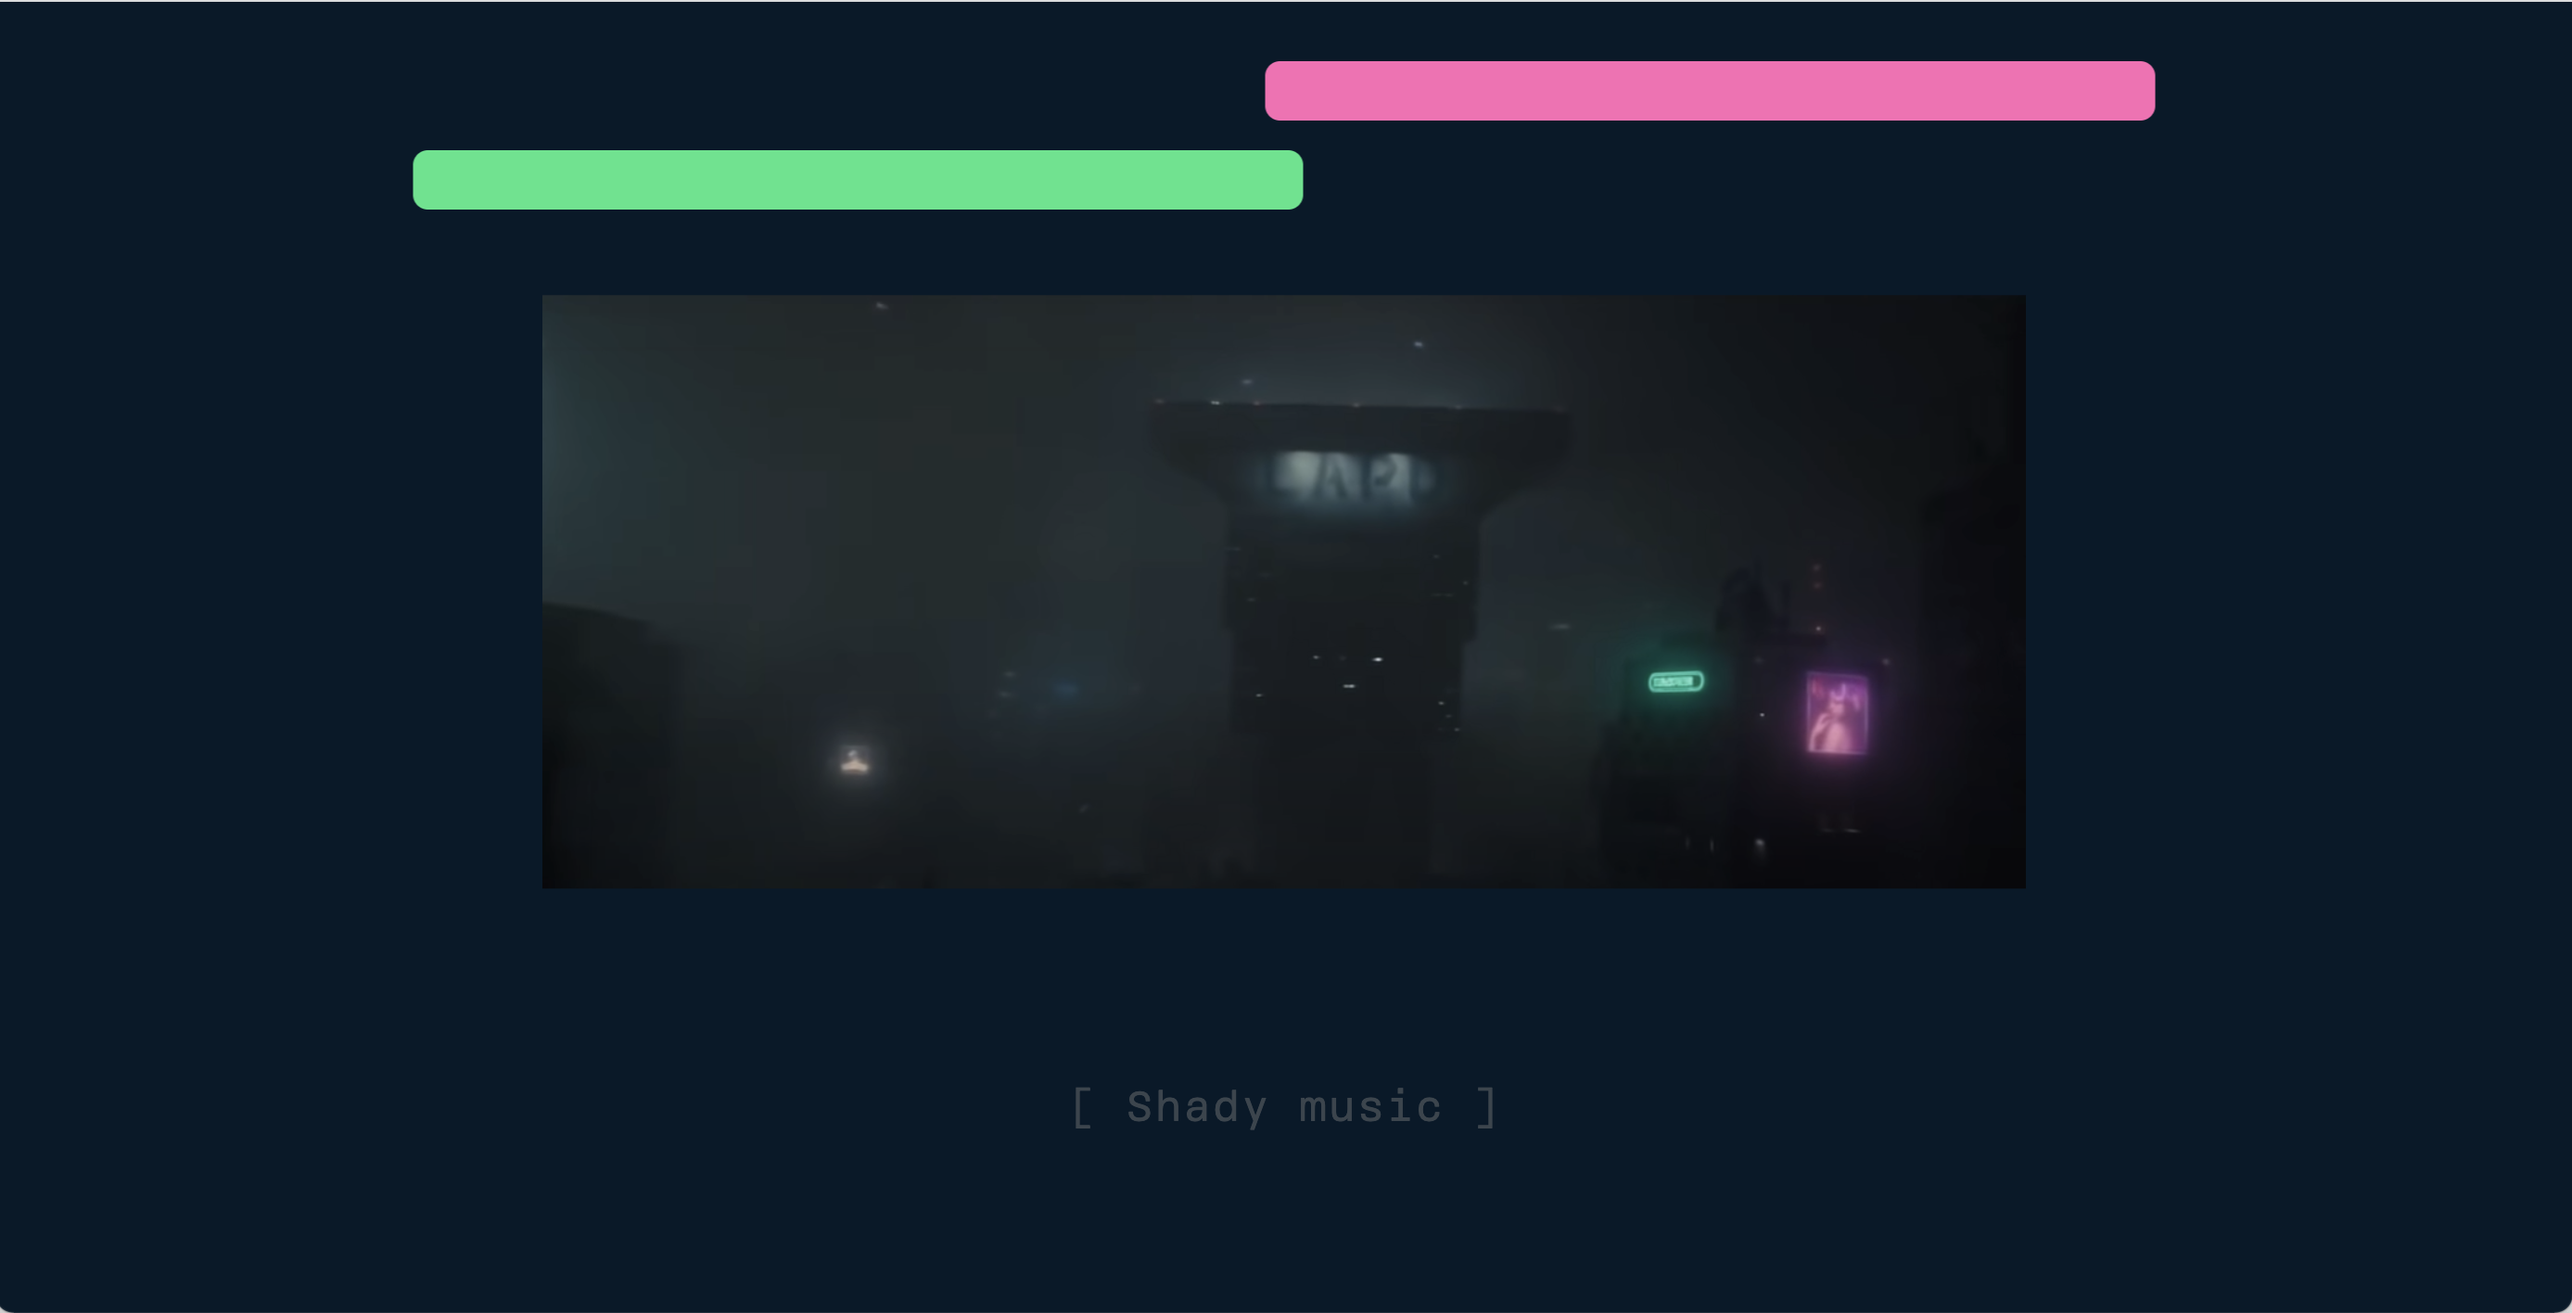
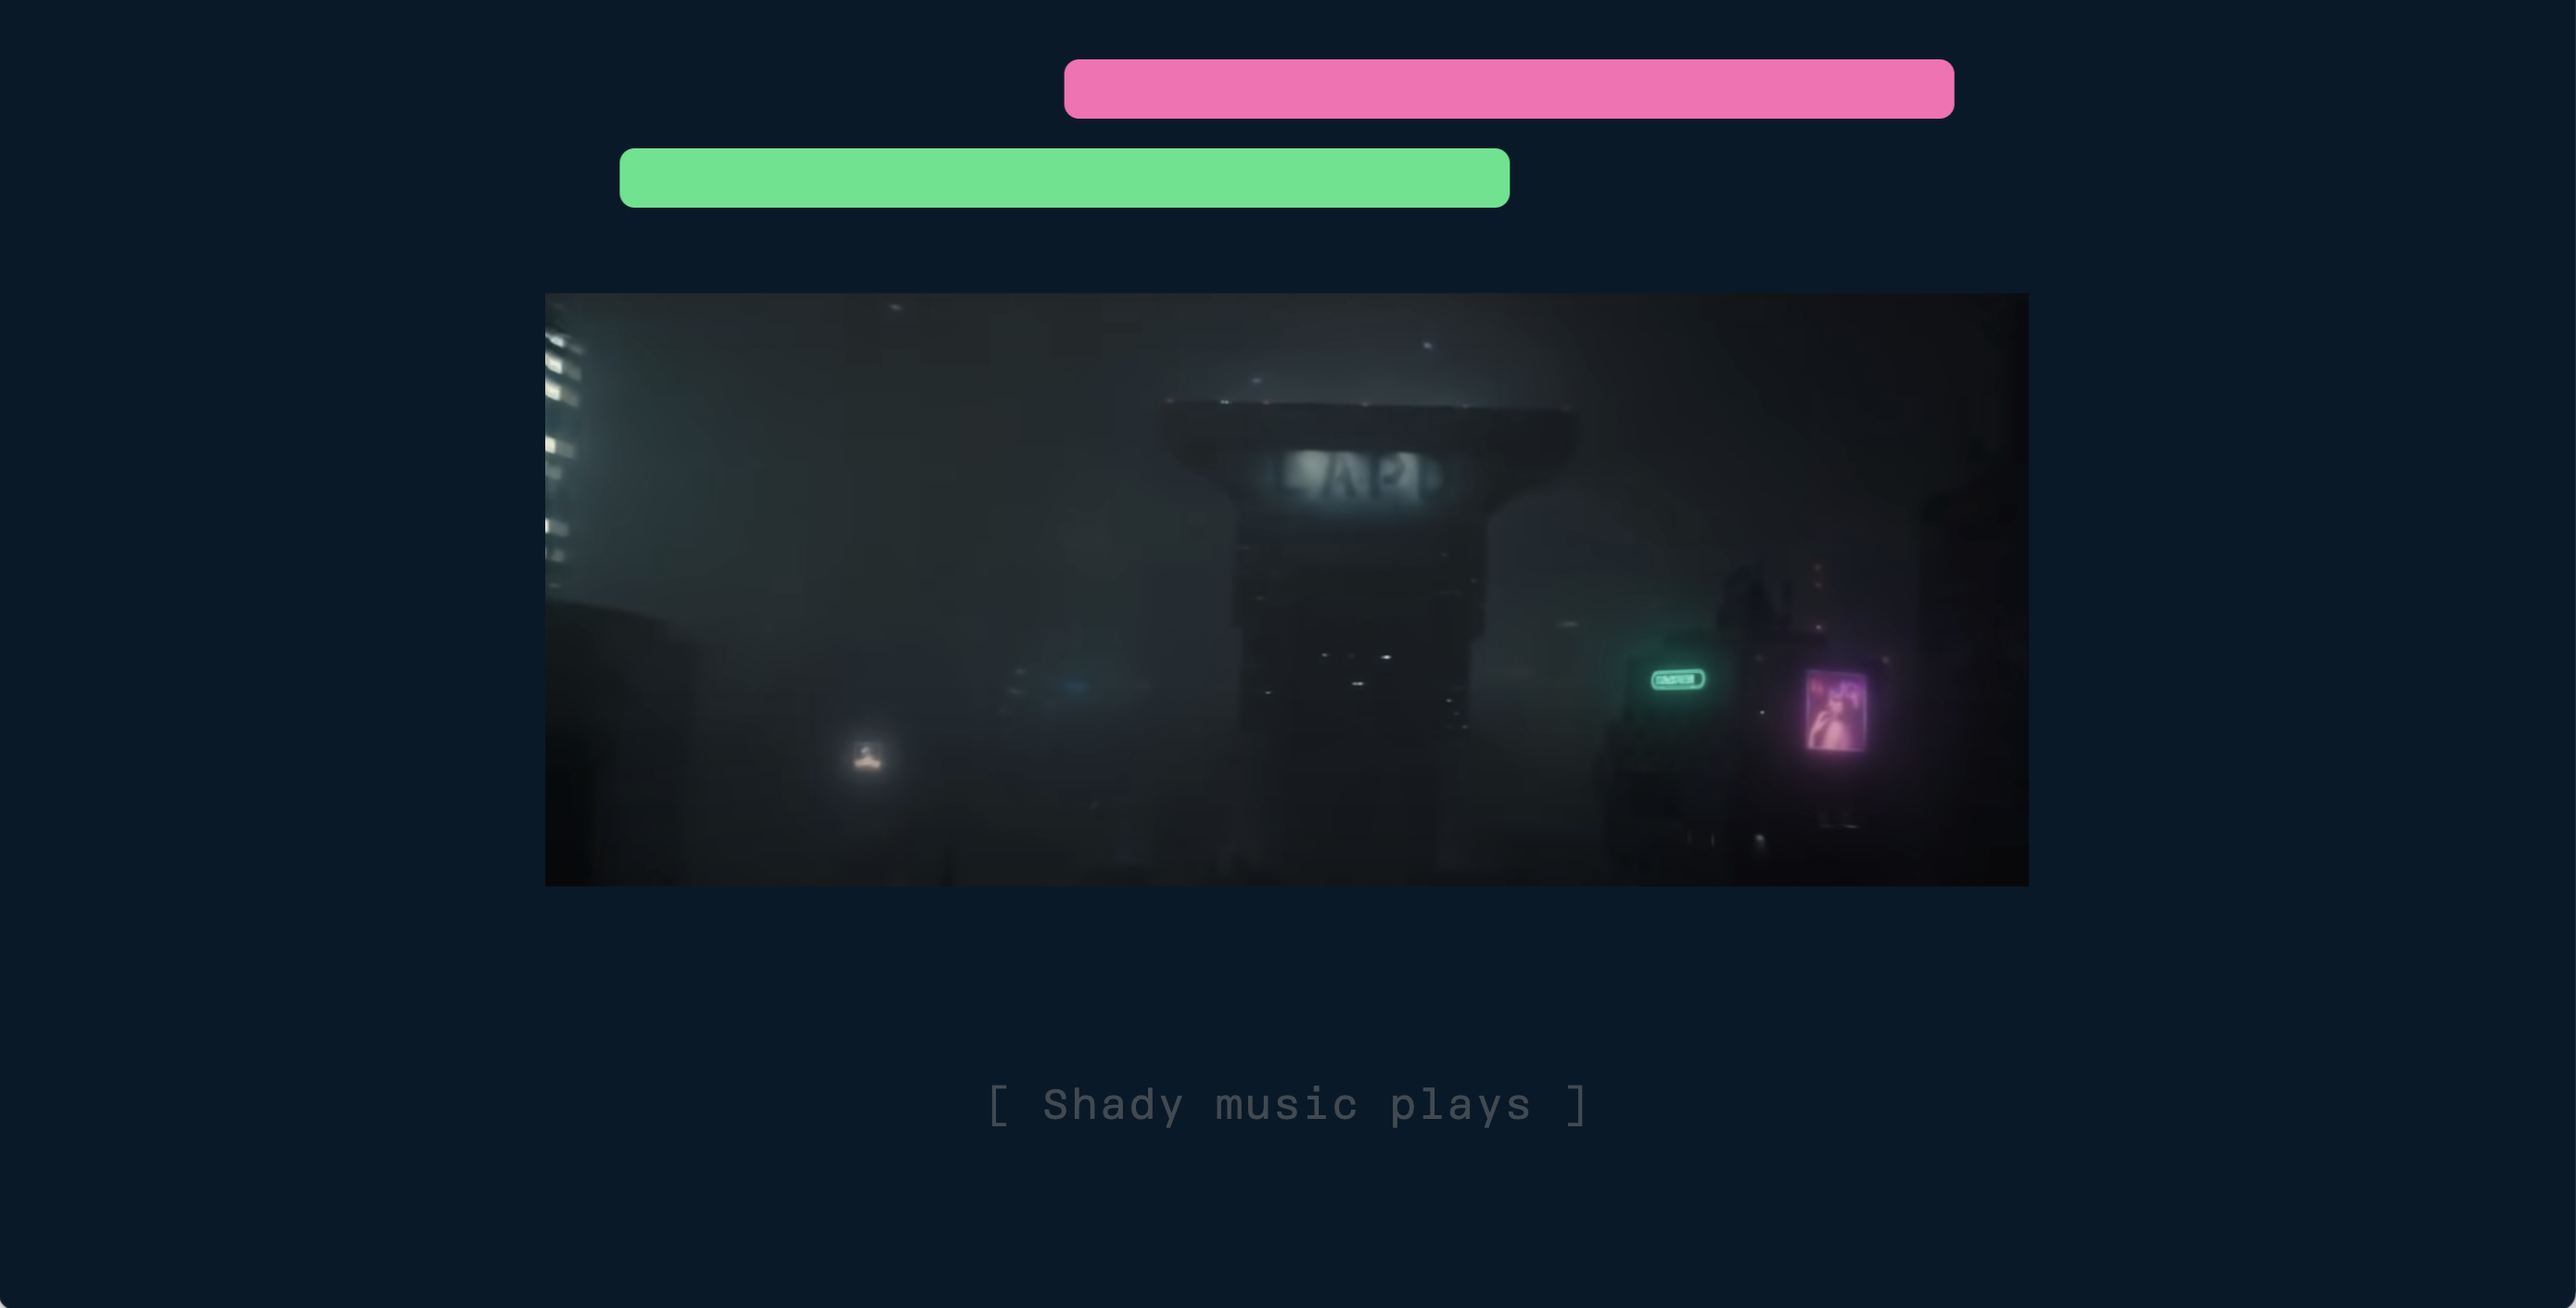
Add files via upload

diff --git a/closed-captions/css.css b/closed-captions/css.css
@@ -23,8 +23,8 @@ body {
     transition: .5s;
     position: absolute;
     text-align: left;
-	bottom: 5em;
-    width: 99%;
+	bottom: 7em;
+    /* width: 99%; */
 }
 
 #closed-captions .on {
@@ -50,13 +50,13 @@ iframe {
 /* robotstem */
 .voice1::before {
     content: "Computer: ";
-    font-style: "brenner mono";
+    font-style: "Brenner Mono";
     color: lightskyblue;
     font-weight: bold;
 }
 
 .voice1 {
-    font-family: "brenner mono";
+    font-family: "Brenner Mono";
     font-style: italic;
     font-size: 1em;
     color: white;
@@ -104,13 +104,13 @@ iframe {
     font-family:"Brenner Sans";
     font-weight: normal ;
     font-size: 1em;
-    color: black;
+    color: white;
 }
 
 
 /* achtergrond effect begin */
 .sound0::before {
-	content: "[ Shady music ]";
+	content: "[ Shady music plays ]";
 	position: absolute;
 	text-align: center;	
 	bottom: 4em;
@@ -278,7 +278,7 @@ iframe {
 	content: "[ ALARM ]";
 	position: absolute;
 	text-align: center;	
-	top: 1.5em;
+	top: 1.8em;
 	color: yellow;
 	font-size: 2em;
 	transition: .5s;
@@ -343,7 +343,7 @@ iframe {
 	content: "[ SIRENE 🚨 ]";
 	position: absolute;
 	text-align: center;	
-	top: 1.5em;
+	top: 1.8em;
 	color: white;
 	font-size: 2em;
 	transition: .5s;
@@ -395,7 +395,7 @@ iframe {
 .sound3::before {
 	content: "[ ALARM ⚠ ]";
 	position: absolute;	
-	top: 1.5em;
+	top: 1.8em;
 	color: yellow;
 	font-size: 2em;
 	transition: .5s;
@@ -469,9 +469,9 @@ iframe {
     text-align: center;	
 	top: 1.5em;
 	color: red;
-	font-size: 3.5em;
+	font-size: 3em;
 	transition: .5s;
-	animation:verdwijn4 2s 0s forwards;
+	animation:verdwijn4 3s 0s forwards;
 	
 }
 
@@ -513,7 +513,7 @@ iframe {
 .sound5::before {
 	content: "[ ALARM again ⚠⚠ ]";
 	position: absolute;	
-	top: 1.5em;
+	top: 1.8em;
     text-align: center;
 	color: yellow;
 	font-size: 2em;
@@ -558,7 +558,7 @@ iframe {
 .sound6:before {
 	content: "[ ALARM again ⚠⚠⚠ ]";
 	position: absolute;	
-	top: 1.5em;
+	top: 1.8em;
     text-align: center;	
 	color: yellow;
 	font-size: 2em;
@@ -607,8 +607,8 @@ iframe {
 	color:white;
 	position: absolute;
     text-align: center;	
-	top: 1.5em;
-    width: 99%;
+	top: 1.8em;
+	font-size: 2em;
 	animation:verdwijn7 20s 0s forwards;
 }
 
@@ -649,11 +649,11 @@ iframe {
 .sound8:before {
 	content:"{ Higher beep tone }";
 	transition: .5s;
+	font-size: 2em;
 	color:white;
 	position: absolute;
     text-align: center;	
-	top: 1.5em;
-    width: 99%;
+	top: 1.8em;
 	animation:verdwijn8 50s 0s forwards;
 }
 
@@ -672,10 +672,10 @@ iframe {
 }
 
 .sound8 {
-	animation:trilling 20s linear;
+	animation:trilling 30s linear;
 	background-image: url("https://media.giphy.com/media/F9qCEnzEaYLu0/giphy.gif");
-	background-size: 1500px 300px;
-	background-repeat: none;
+	background-size: 1500px 900px;
+	background-repeat: no-repeat;
 }
 
 
@@ -706,12 +706,12 @@ iframe {
 .sound9:before {
 	content:"{ Beep tone stops }";
 	transition: .5s;
+	font-size: 2em;
 	color:black;
 	position: absolute;
     text-align: center;	
-	top: 2em;
-    width: 99%;
-	animation:verdwijn9 5s 0s forwards;
+	top: 1,8em;
+	animation:verdwijn9 3s 0s forwards;
 }
 
 @keyframes verdwijn9 {
@@ -730,10 +730,9 @@ iframe {
 
 .sound9 {
 	background-image:none;
-	animation:verdwijnAchtergrond9 5s ease-in-out 0s 1;
+	animation:verdwijnAchtergrond9 2s ease-in 0s 1;
 }
 
- /* Deze aanpasssen, video abrupt op wit laten gaan */
 @keyframes verdwijnAchtergrond9 {
 	0% {
 		background-color:#061929;
@@ -754,12 +753,12 @@ iframe {
 .sound10::before {
 	content:"{ Upcoming beep tone }";
 	transition: .5s;
-	color:orangered;
+	font-size: 2em;
+	color:white;
 	position: absolute;
     text-align: center;	
-	top: 2em;
-    width: 99%;
-	animation:verdwijn10 55s 0s forwards;
+	top: 1.8em;
+	animation:verdwijn10 70s 0s forwards;
 }
 
 @keyframes verdwijn10 {
@@ -777,24 +776,49 @@ iframe {
 }
 
 .sound10 {
-	background-image: url("https://media.giphy.com/media/F9qCEnzEaYLu0/giphy.gif");
-	background-size: 1500px 300px;
-	background-repeat: none;
+	background-image: url("https://media4.giphy.com/media/WKwlsmGfckMbrhnzkR/giphy.gif?cid=ecf05e47sl8a8xdq4h7jlzvcekgtism2npcrpo5vphnwy5kw&rid=giphy.gif&ct=g");
+	background-size: 1500px 900px;
+	background-repeat: no-repeat;
 }
 
-
 .sound11::before {
-	content:"{ Beep tone stops }";
+		content:"{ Long pause }";
+		transition: .5s;
+		font-size: 2em;
+		color:white;
+		position: absolute;
+		text-align: center;	
+		top: 1.8em;
+		animation:verdwijn11 3s 0s forwards;
+	}
+
+	@keyframes verdwijn11 {
+		0% {
+			opacity: 0;
+		}
+	
+		50% {
+			opacity: 1;
+		}
+	
+		100% {
+			opacity:0;
+		}
+	}
+
+
+.sound12::before {
+	content:"{ Silence }";
 	transition: .5s;
+	font-size: 2em;
 	color:black;
 	position: absolute;
     text-align: center;	
-	top: 2em;
-    width: 99%;
-	animation:verdwijn11 15s 0s forwards;
+	top: 1.8em;
+	animation:verdwijn12 4s 0s forwards;
 }
 
-@keyframes verdwijn11 {
+@keyframes verdwijn12 {
 	0% {
 		opacity: 0;
 	}
@@ -808,15 +832,24 @@ iframe {
 	}
 }
 
-.sound11 { /* Hier nog een andere gif nog voor vinden, toon is anders */
-	background-image: url("https://media.giphy.com/media/F9qCEnzEaYLu0/giphy.gif"); 
-	background-size: 1500px 300px;
-	background-repeat: none;
+@keyframes verdwijnAchtergrond12 {
+	0% {
+		background-color:#061929;
+	}
+
+	99% {
+		background-color:white;
+	}
+
+	100% {
+		background-color:#061929;
+	}
 }
 
 .sound12 {
+	animation:verdwijnAchtergrond12 2s ease-in-out 0s 1;
 	background-image:none;
-	background-color:grey;
+	background-color:#061929;
 }
 
 

diff --git a/closed-captions/index.html b/closed-captions/index.html
@@ -175,8 +175,8 @@
 		<p class="voice1">When you're not performing your duties, do they keep you in a little box? Cells.</p>
 		<p class="voice2">Cells</p>
 		<p class="voice1">Interlinked. What’s it like to hold the hand of someone you love?</p>
-		<p class="voice2">Interlinked </p>
-		<p class="voice1">Interlinked</p>
+		<p class="voice1">Interlinked </p>
+		<p class="voice2">Interlinked</p>
 		<p class="voice1">Within cells interlinked</p>
 		<p class="voice2">Within cells interlinked</p>
 		<p class="voice1">Dreadfully</p>

diff --git a/closed-captions/sounds.js b/closed-captions/sounds.js
@@ -11,7 +11,7 @@ sounds = [
 	33, // Pieptoon begint
 	40, // Pieptoon wordt hoger
 	75, // Pieptoon stopt
-	90, // Pieptoon start weer
-	125, // Pieptoon stopt
-	133. // Stilte
+	88, // Pieptoon start weer
+	100, // Long Pause
+	130. // Pieptoon stopt
 ];

diff --git a/README Carmen.md b/README Carmen.md
@@ -53,10 +53,16 @@ Ook ga ik de belangrijke geluiden, die essentieel zijn in de film, visueel maken
 
   - Aan het begin van de video zie je neonlichten in de stad, wat karakter geeft aan de omgeving waarin de personage zich bevind. Daarom heb ik besloten deze extra uit te lichten en ze ook op de achtergrond als soort lazerstralen te tonen. Dit geeft het ook een spannend effect en vond ik passend bij het 'space geluid' wat je hoorde.
 
-  <img src="neonlights.png" width="375px" alt="screenshot neonlights">
+  <img src="readme-images/neonlights.png" width="375px" alt="neonlights effect">
 
+  - Dit heb ik ook bij de sirene gedaan die je hoort. De lichten daarvan heb ik op de achtergrond geprojecteerd en ook zie je het icoon van een sirene verschijnen.
 
-  - Vervolgens heb ik bij het horen van een alarm, een rode gradient gebruikt als achtergrond en springt het beeld naar voren. Ook zie je het woord [ Alarm ] , deze heb ik binnen haakjes gezet zodat de kijken ziet dat het om een geluid gaat.
+  <img src="readme-images/Sirene.png" width="375px" alt="sirene effect">
+
+  - Vervolgens heb ik bij het horen van een alarm, een rode gradient gebruikt als achtergrond en springt het beeld naar voren. Ook zie je het woord [ Alarm ] , deze heb ik binnen haakjes gezet zodat de kijker ziet dat het om een geluid gaat.
+  Wanneer een alarm heftiger wordt heb ik daar een icoon aan toegevoegd, dit benadrukt de ernst van het geluid. 
+
+  <img src="readme-images/AlarmAgainX3.png" width="375px" alt="alarm effect">
 
 
 </details>
@@ -114,8 +120,7 @@ Ook ga ik de belangrijke geluiden, die essentieel zijn in de film, visueel maken
 
 <details>
 
-1. bron 1: 
-2. bron 2: 
-3. bron 3:
+1. bron 1: https://giphy.com (gif achtergrond 1)
+2. bron 2: https://media.giphy.com (gif achtergrond 2)
 
 </details>
